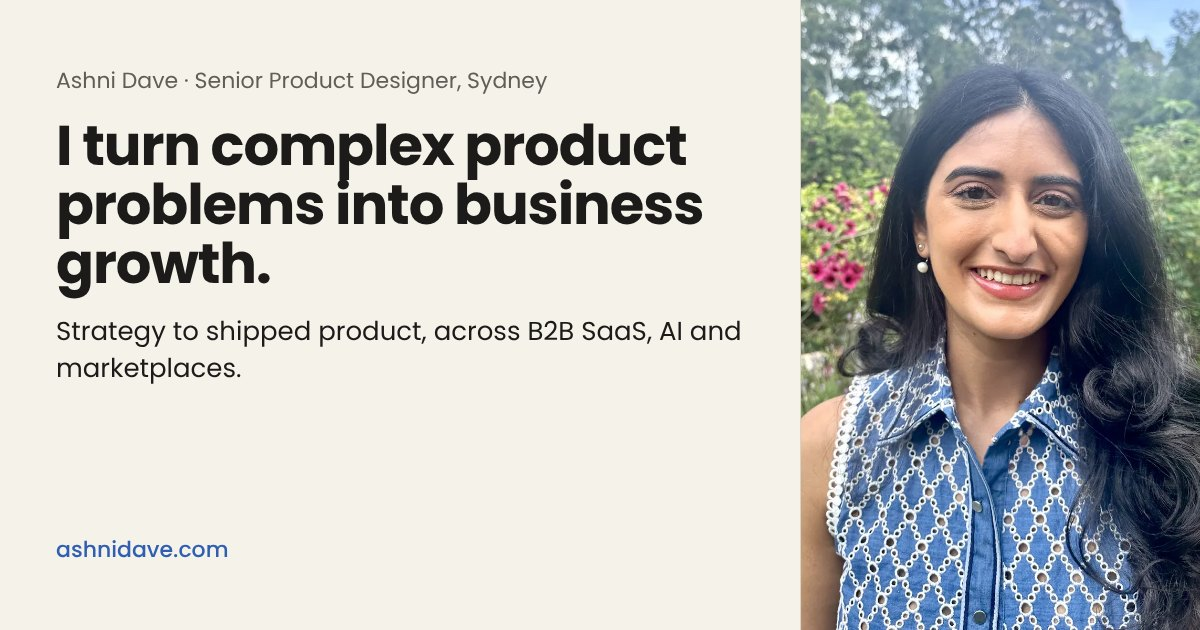
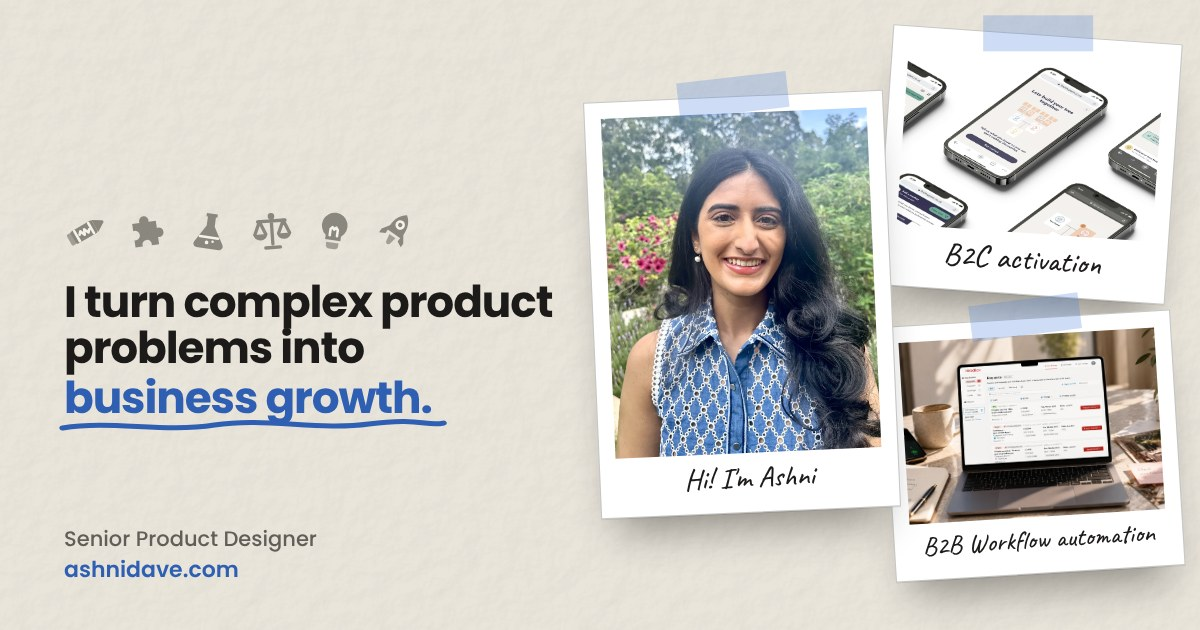
New link preview thumbnail (#77)
* Selected work: keep Saturn above the crayon so it never overlaps the heading copy

Claude-Session: https://claude.ai/code/session_01CG5VqjYVk8vS57xhXYEY1a

* Selected work: move the crayon to the right of the heading copy

Claude-Session: https://claude.ai/code/session_01CG5VqjYVk8vS57xhXYEY1a

* Case studies: slide-and-kid hover on the back link; drop the check from the puzzle icon and the plus from the star icon

Claude-Session: https://claude.ai/code/session_01CG5VqjYVk8vS57xhXYEY1a

* Nav: solid blue mountain icon in the section-icon style, with a climber and flag on hover

Claude-Session: https://claude.ai/code/session_01CG5VqjYVk8vS57xhXYEY1a

* Case studies: rename the Result heading to Outcomes

Claude-Session: https://claude.ai/code/session_01CG5VqjYVk8vS57xhXYEY1a

* Selected work: Saturn sits to the right of the rocket, rocket flies straight with no upturn

Claude-Session: https://claude.ai/code/session_01CG5VqjYVk8vS57xhXYEY1a

* Selected work: crayon rests pointing at the full stop, then rotates into the rocket and takes off

Claude-Session: https://claude.ai/code/session_01CG5VqjYVk8vS57xhXYEY1a

* Nav: drop the background peak, flat-based mountain, climber animation only on desktop and tablet

Claude-Session: https://claude.ai/code/session_01CG5VqjYVk8vS57xhXYEY1a

* Blue illustrated cursor, whole-card click target, card CTA corners, faster loading

- Cursor: animated blue arrow that becomes a tapping hand over clickable things (mouse only)
[…]

diff --git a/src/seo.ts b/src/seo.ts
@@ -67,7 +67,7 @@ export function headFor(page: Page) {
   const image = `${SITE_URL}/og/${page === 'home' ? 'home' : page.caseSlug}.jpg`
   const imageAlt = found
     ? `${found.study.title} case study by ${NAME}: ${found.detail.subtitle}`
-    : `${NAME}, ${JOB} in Sydney: a portrait beside the headline I turn complex product problems into business growth.`
+    : `${NAME}, ${JOB} in Sydney: the headline I turn complex product problems into business growth, beside polaroids of her portrait, TreeAssist and HostHQ.`
 
   const graph: object[] = [
     person,
